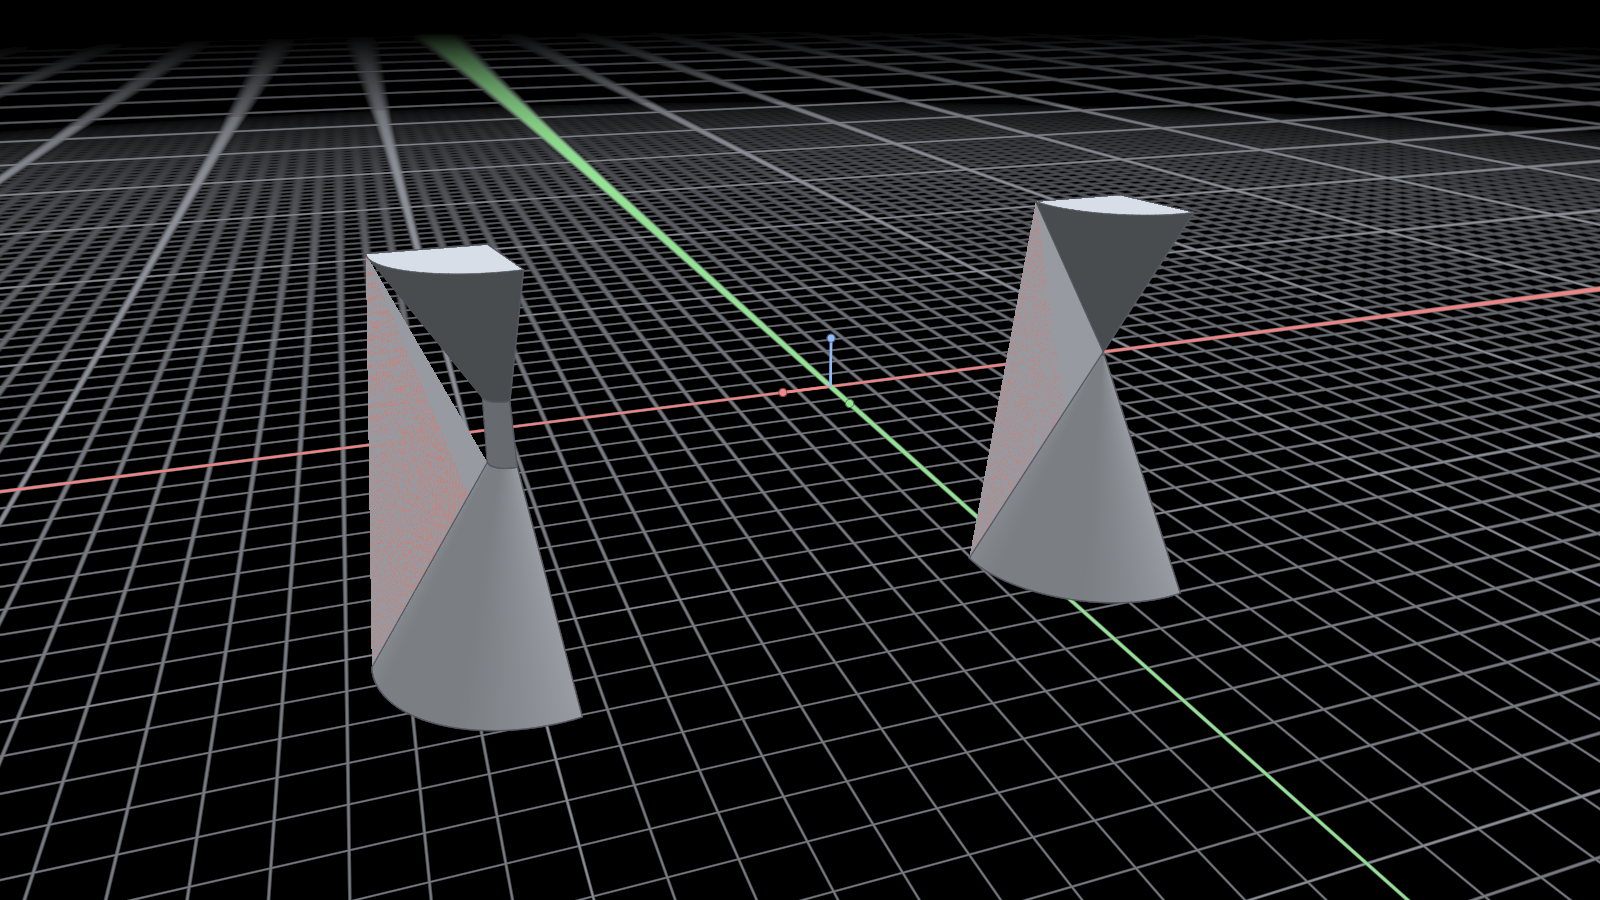
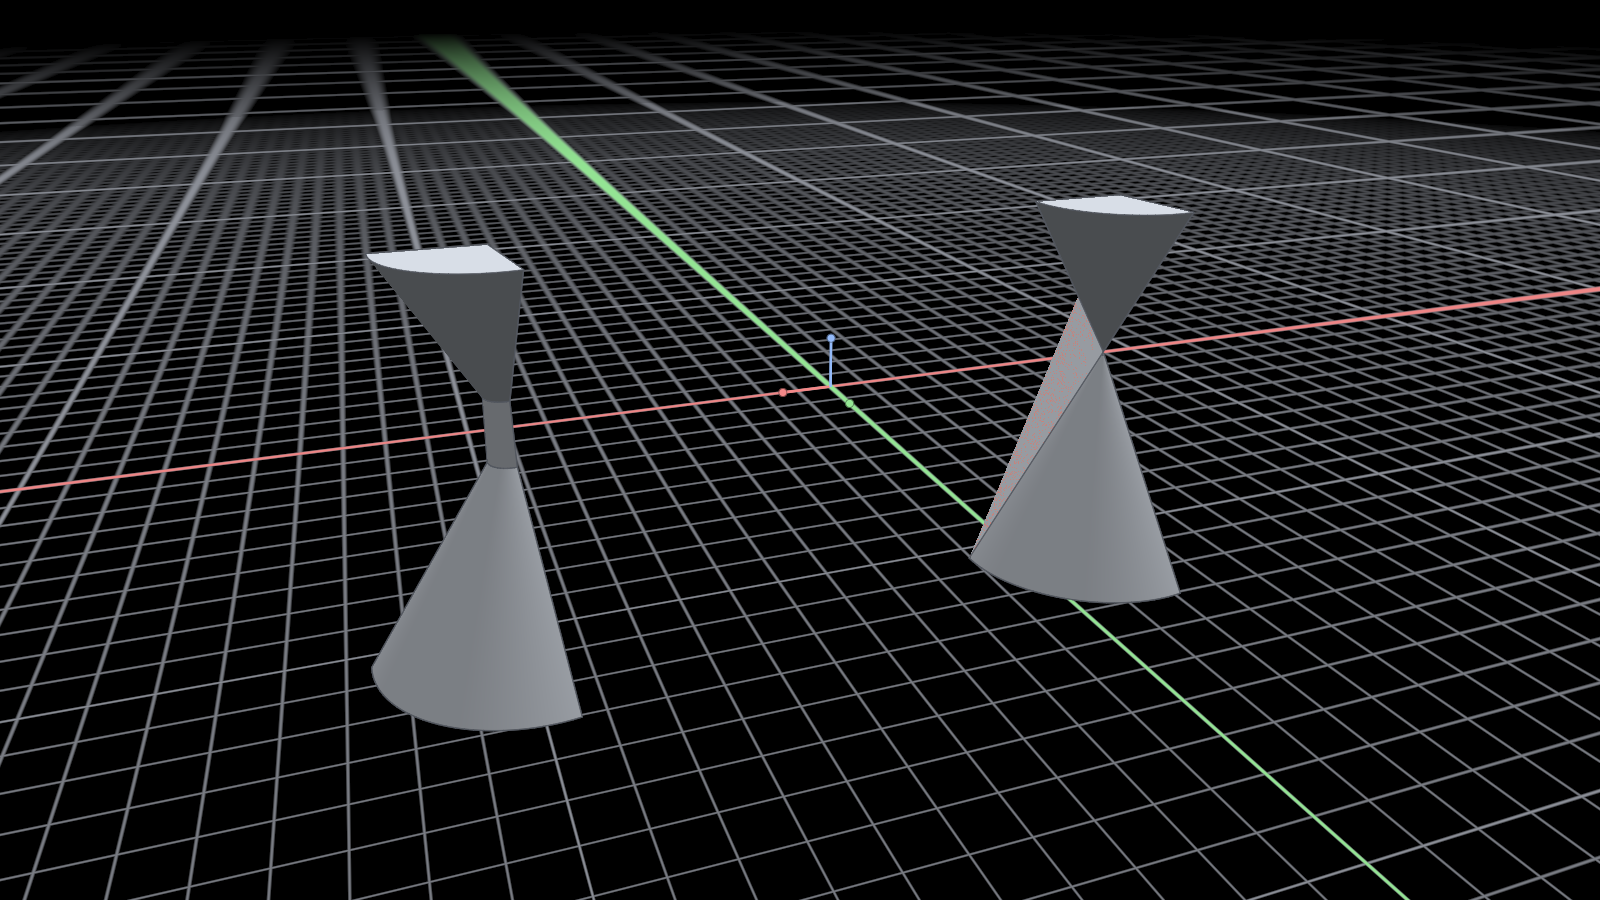
SolidArc: repair partial sector cap rasterization

Changed region(s): [[0.2188, 0.28, 0.3125, 0.7467], [0.5938, 0.2178, 0.6875, 0.5911]]

diff --git a/Editor/AuthoringTools/Modelling/SolidArc/Kernel/TopologySpecification.cpp b/Editor/AuthoringTools/Modelling/SolidArc/Kernel/TopologySpecification.cpp
@@ -721,6 +721,41 @@ BrepBody::FaceTriangles BrepBody::TessellateFace(int Face, double ChordTolerance
         //    the rings, ring edges at the lattice lines, the planar arrangement is walked into cells, and each small cell is
         //    ear clipped. Every triangle therefore spans at most one lattice cell, as on a natural face.
         const NurbsSurface& S = F.Surface;
+        // A trimmed planar face has no surface lattice to clip. Tessellate its boundary directly so
+        // reversing a cap cannot make the planar-cell walker discard the entire (valid) polygon.
+        // This is especially important for radial sector caps, whose two meridian ends have opposite
+        // topological orientations after Orient().
+        if (S.Classification == SurfaceClassification::Plane)
+        {
+            std::vector<Vec2> P;
+            std::vector<std::vector<uint32_t>> Rings;
+            for (int L : F.Loops)
+            {
+                std::vector<uint32_t> Ring;
+                for (int C : Loops[L].Coedges)
+                {
+                    const std::vector<Vec2> Trace = CoedgeTrace(C);
+                    for (size_t I = 0; I + 1 < Trace.size(); ++I)
+                    {
+                        if (!Ring.empty() && P[Ring.back()].Distance(Trace[I]) <= 1e-9) continue;
+                        Ring.push_back(static_cast<uint32_t>(P.size()));
+                        P.push_back(Trace[I]);
+                    }
+                }
+                if (Ring.size() > 1 && P[Ring.front()].Distance(P[Ring.back()]) <= 1e-9) Ring.pop_back();
+                if (Ring.size() >= 3) Rings.push_back(std::move(Ring));
+            }
+            Out.Parameters = P;
+            Out.Positions.reserve(P.size()); Out.Normals.reserve(P.size());
+            for (const Vec2& Q : P) { Out.Positions.push_back(S.Sample(Q.X, Q.Y)); Out.Normals.push_back(S.Normal(Q.X, Q.Y)); }
+            Out.Triangles = TriangulatePolygon(P, Rings);
+            if (F.Reversed)
+            {
+                for (Vec3& N : Out.Normals) N = N * -1.0;
+                for (size_t T = 0; T + 2 < Out.Triangles.size(); T += 3) std::swap(Out.Triangles[T + 1], Out.Triangles[T + 2]);
+            }
+            return Out;
+        }
         const double U0 = S.DomainStartU(), U1 = S.DomainEndU(), V0 = S.DomainStartV(), V1 = S.DomainEndV();
         const double Eps = 1e-9 * (U1 - U0 + V1 - V0);
         std::vector<double> SamplesU{ U0, U1 }, SamplesV{ V0, V1 };

diff --git a/Editor/AuthoringTools/Modelling/SolidArc/Verification/PartialUnequalBiconeApexChamferVerification.cpp b/Editor/AuthoringTools/Modelling/SolidArc/Verification/PartialUnequalBiconeApexChamferVerification.cpp
@@ -72,7 +72,9 @@ struct Fixture
         Body.Faces[Face].Natural = false;
         const int Loop = Body.AddLoop(Face, true);
         for (const auto& [Edge, Reversed] : Path) Body.AddCoedge(Edge, Reversed, Face, Loop);
-        Body.AddCoedge(AxisEdge, Body.Edges[AxisEdge].VertexStart == EndVertex, Face, Loop);
+        // The meridian path already runs from the lower axial centre to the upper one;
+        // close the radial cap with the shared axis edge in reverse.
+        Body.AddCoedge(AxisEdge, Body.Edges[AxisEdge].VertexStart == StartVertex, Face, Loop);
         return true;
     };
     return AddCap(StartEdges, RadialStart) && AddCap(EndEdges, RadialEnd) && Body.Orient();

diff --git a/Editor/AuthoringTools/Modelling/SolidArc/Kernel/BlendSolver.cpp b/Editor/AuthoringTools/Modelling/SolidArc/Kernel/BlendSolver.cpp
@@ -423,7 +423,9 @@ namespace
             Body.Faces[Face].Natural = false;
             int Loop = Body.AddLoop(Face, true);
             for (const auto& [Edge, Reversed] : Path) Body.AddCoedge(Edge, Reversed, Face, Loop);
-            bool ReverseAxis = Body.Edges[AxisEdge].VertexStart == EndVertex;
+            // The radial boundary already walks from the lower axial centre to the upper axial
+            // centre; the shared axis edge must close it in the opposite direction.
+            const bool ReverseAxis = Body.Edges[AxisEdge].VertexStart == StartVertex;
             Body.AddCoedge(AxisEdge, ReverseAxis, Face, Loop);
             return true;
         };
